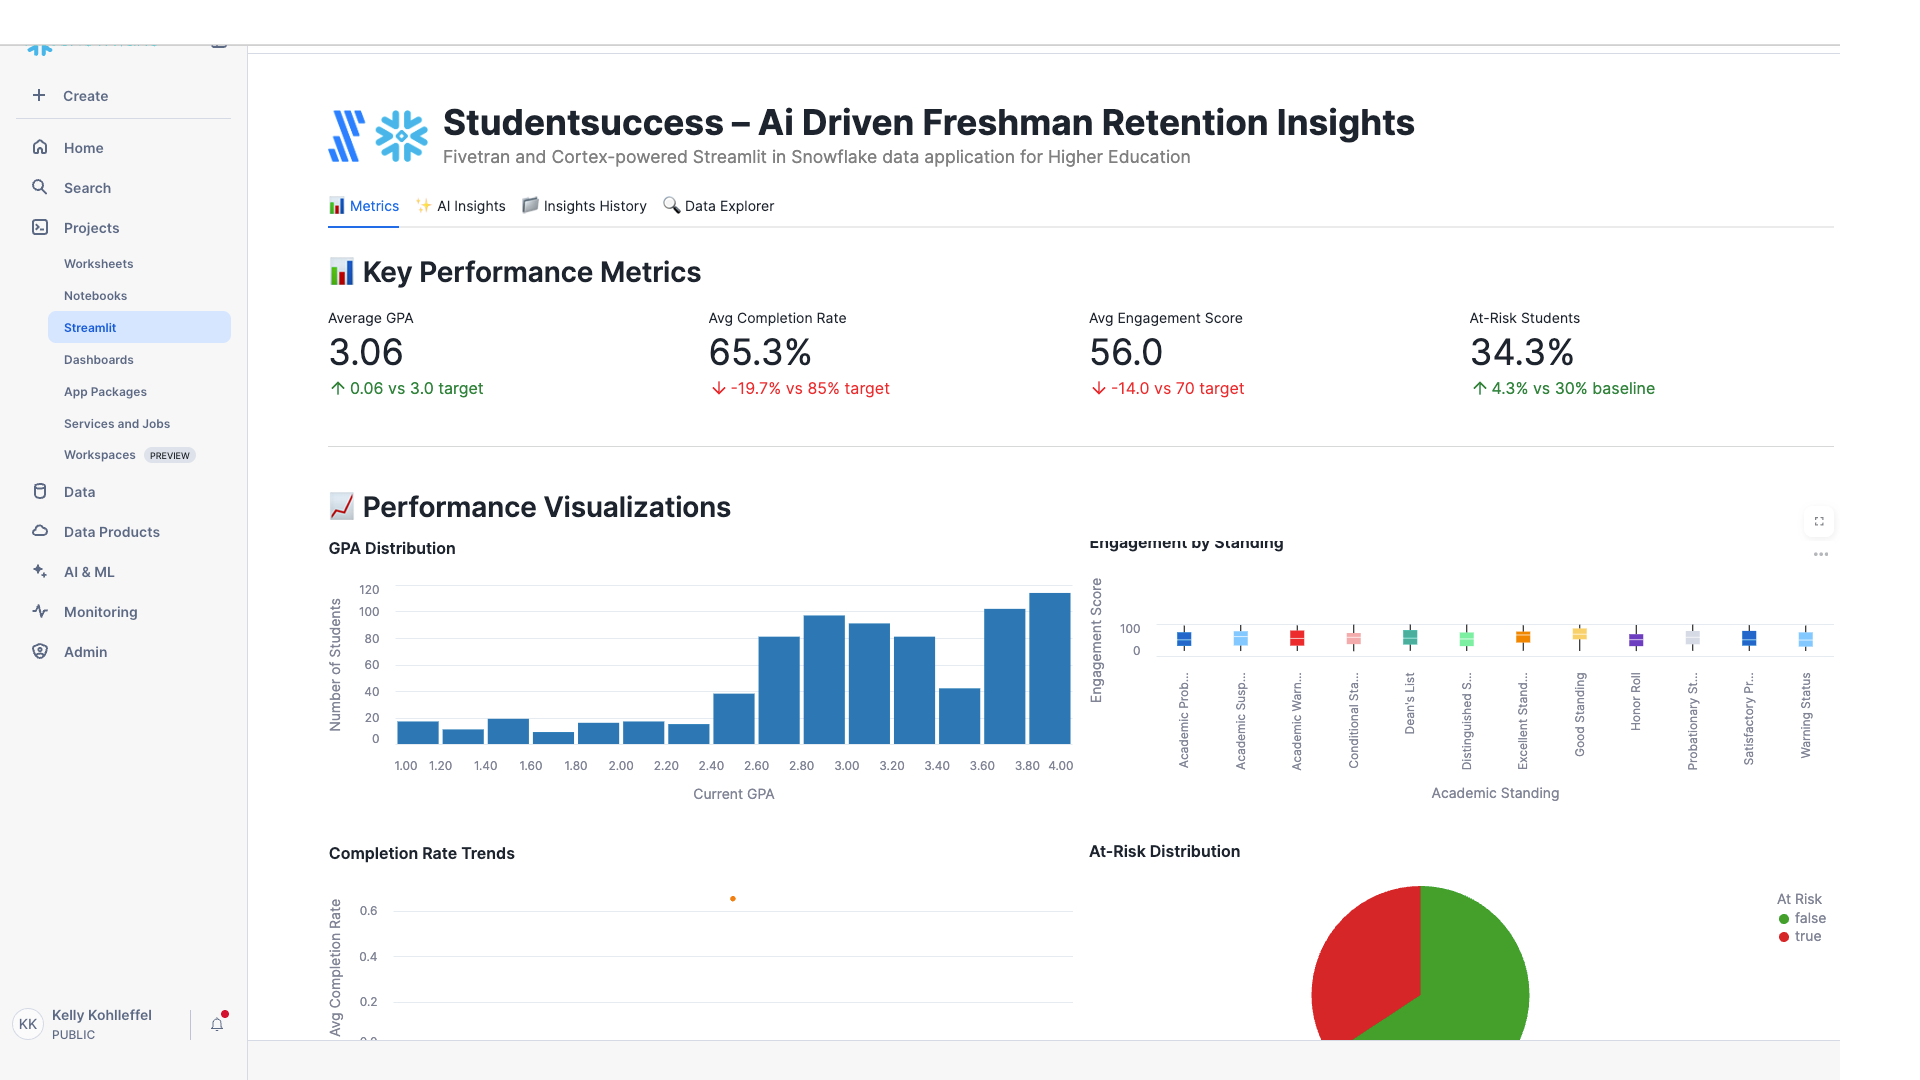
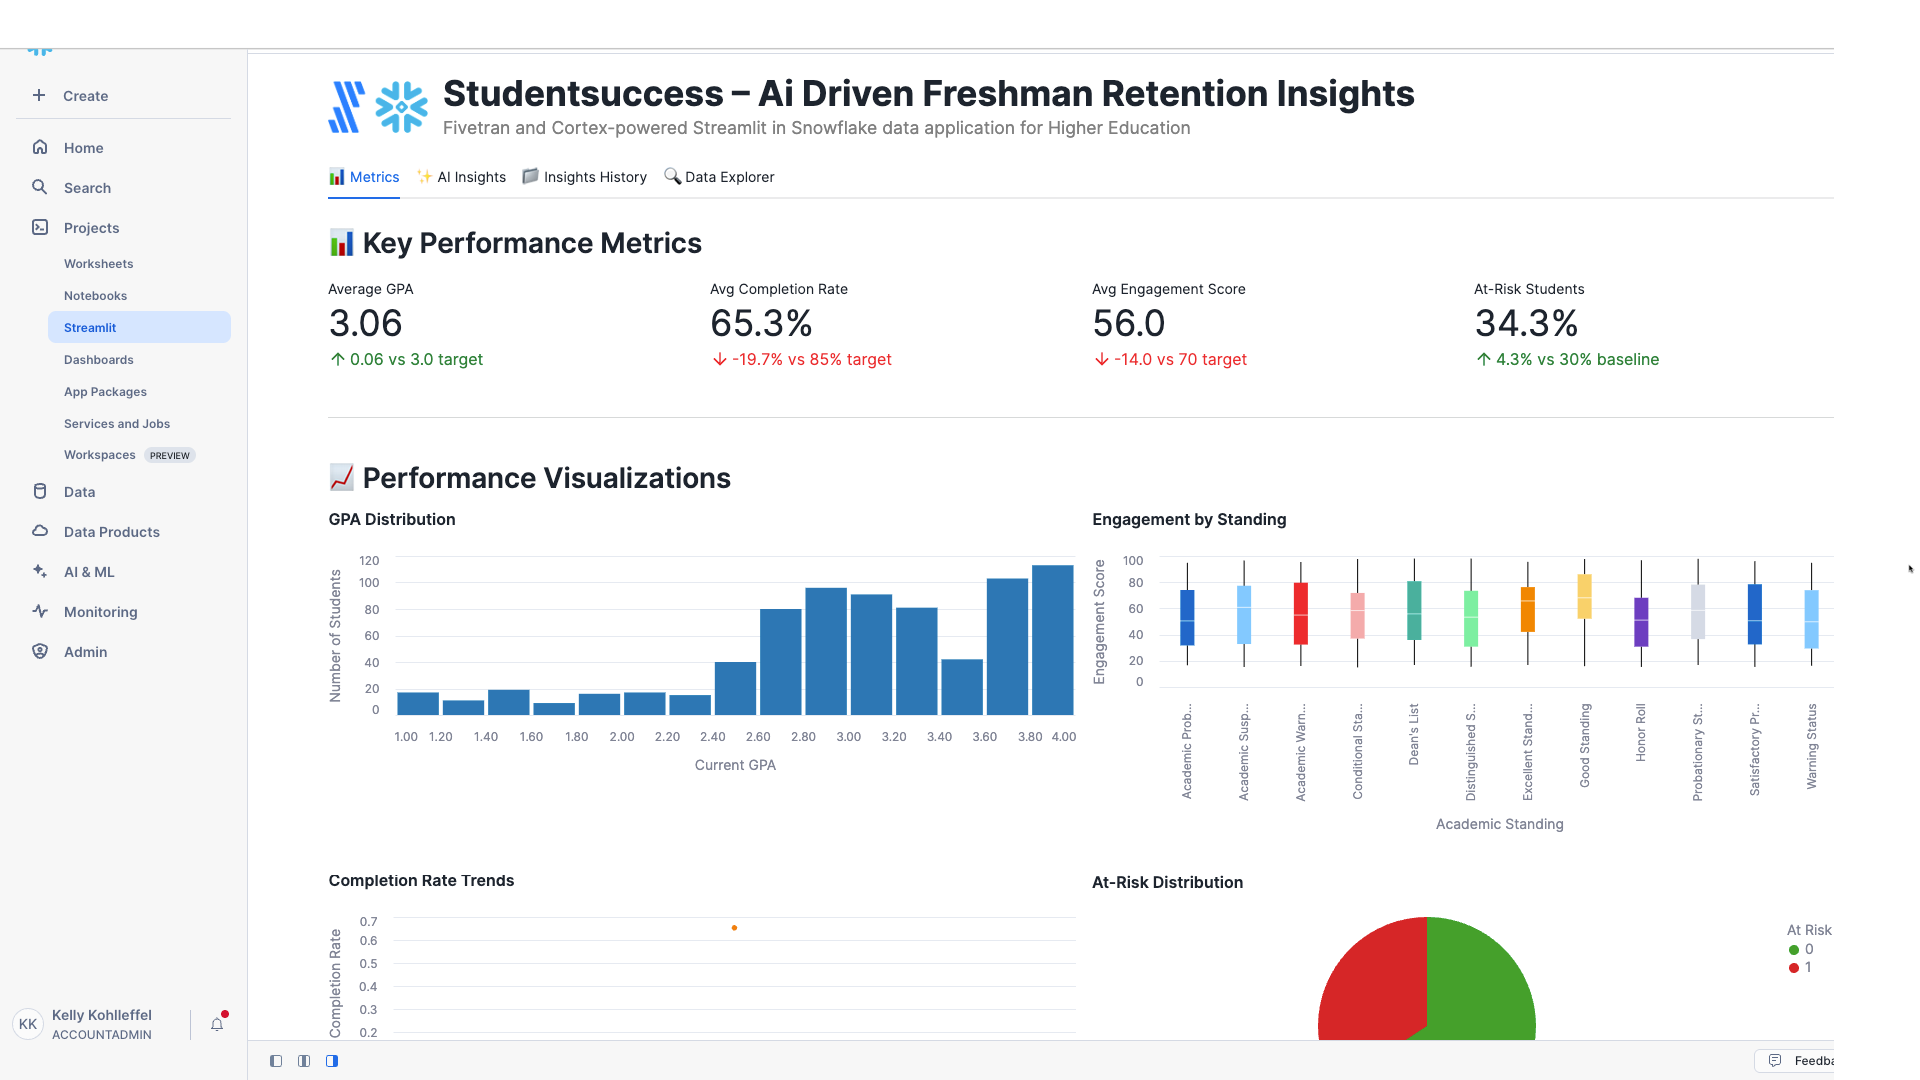
HED updates - engagement by standing metric adjustment and updated image

diff --git a/HED_HigherEd_Freshman_Retention/Streamlit_App/app.py b/HED_HigherEd_Freshman_Retention/Streamlit_App/app.py
@@ -337,7 +337,7 @@ def create_metrics_charts(data):
         ).properties(
             title='Engagement by Standing',
             width=380,
-            height=280
+            height=340
         )
         charts.append(('Engagement by Standing', engagement_chart))
     

diff --git a/HED_HigherEd_Freshman_Retention/Streamlit_App/app_agent.py b/HED_HigherEd_Freshman_Retention/Streamlit_App/app_agent.py
@@ -341,7 +341,7 @@ def create_metrics_charts(data):
         ).properties(
             title='Engagement by Standing',
             width=380,
-            height=280
+            height=340
         )
         charts.append(('Engagement by Standing', engagement_chart))
     
